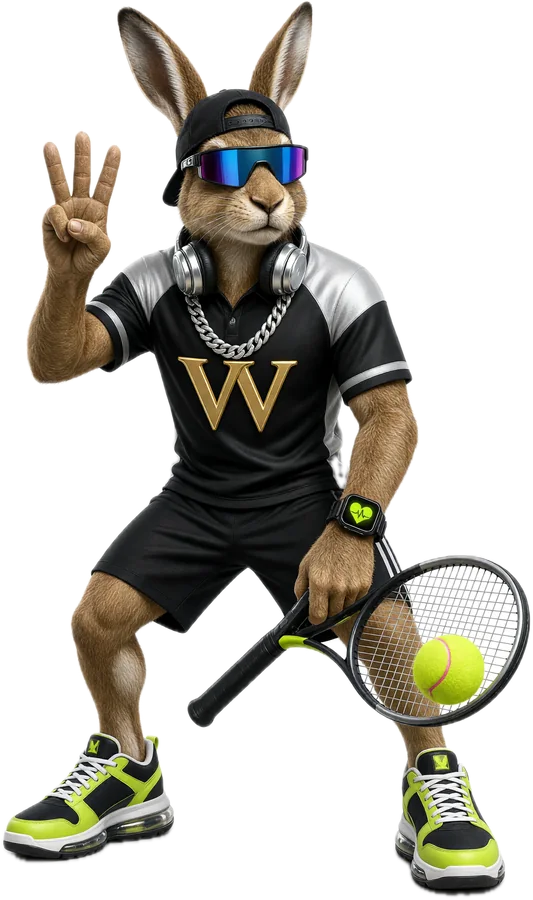
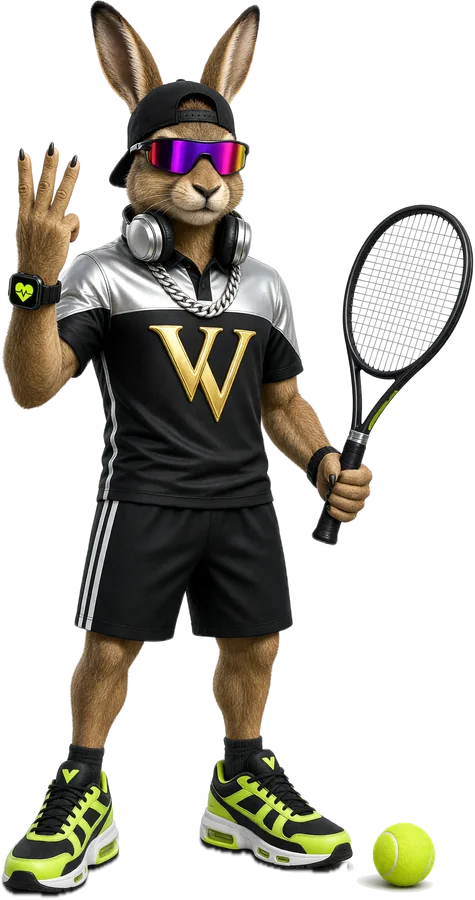
Tennis hare: re-rendered with a clean grip on the handle, intact racket and strings, ball on the ground

diff --git a/src/lib/personas.ts b/src/lib/personas.ts
@@ -22,7 +22,7 @@ export const PERSONAS: Record<VVakerSport, { animal: string; w: number; h: numbe
   swimmer: { animal: "otter", w: 385, h: 900 },
   hiker: { animal: "grizzly bear", w: 503, h: 900 },
   climber: { animal: "snow leopard", w: 515, h: 900 },
-  racket: { animal: "hare", w: 533, h: 900 },
+  racket: { animal: "hare", w: 475, h: 900 },
   dancer: { animal: "zebra", w: 674, h: 900 },
   skier: { animal: "husky", w: 619, h: 900 },
   footballer: { animal: "lion", w: 449, h: 900 },
